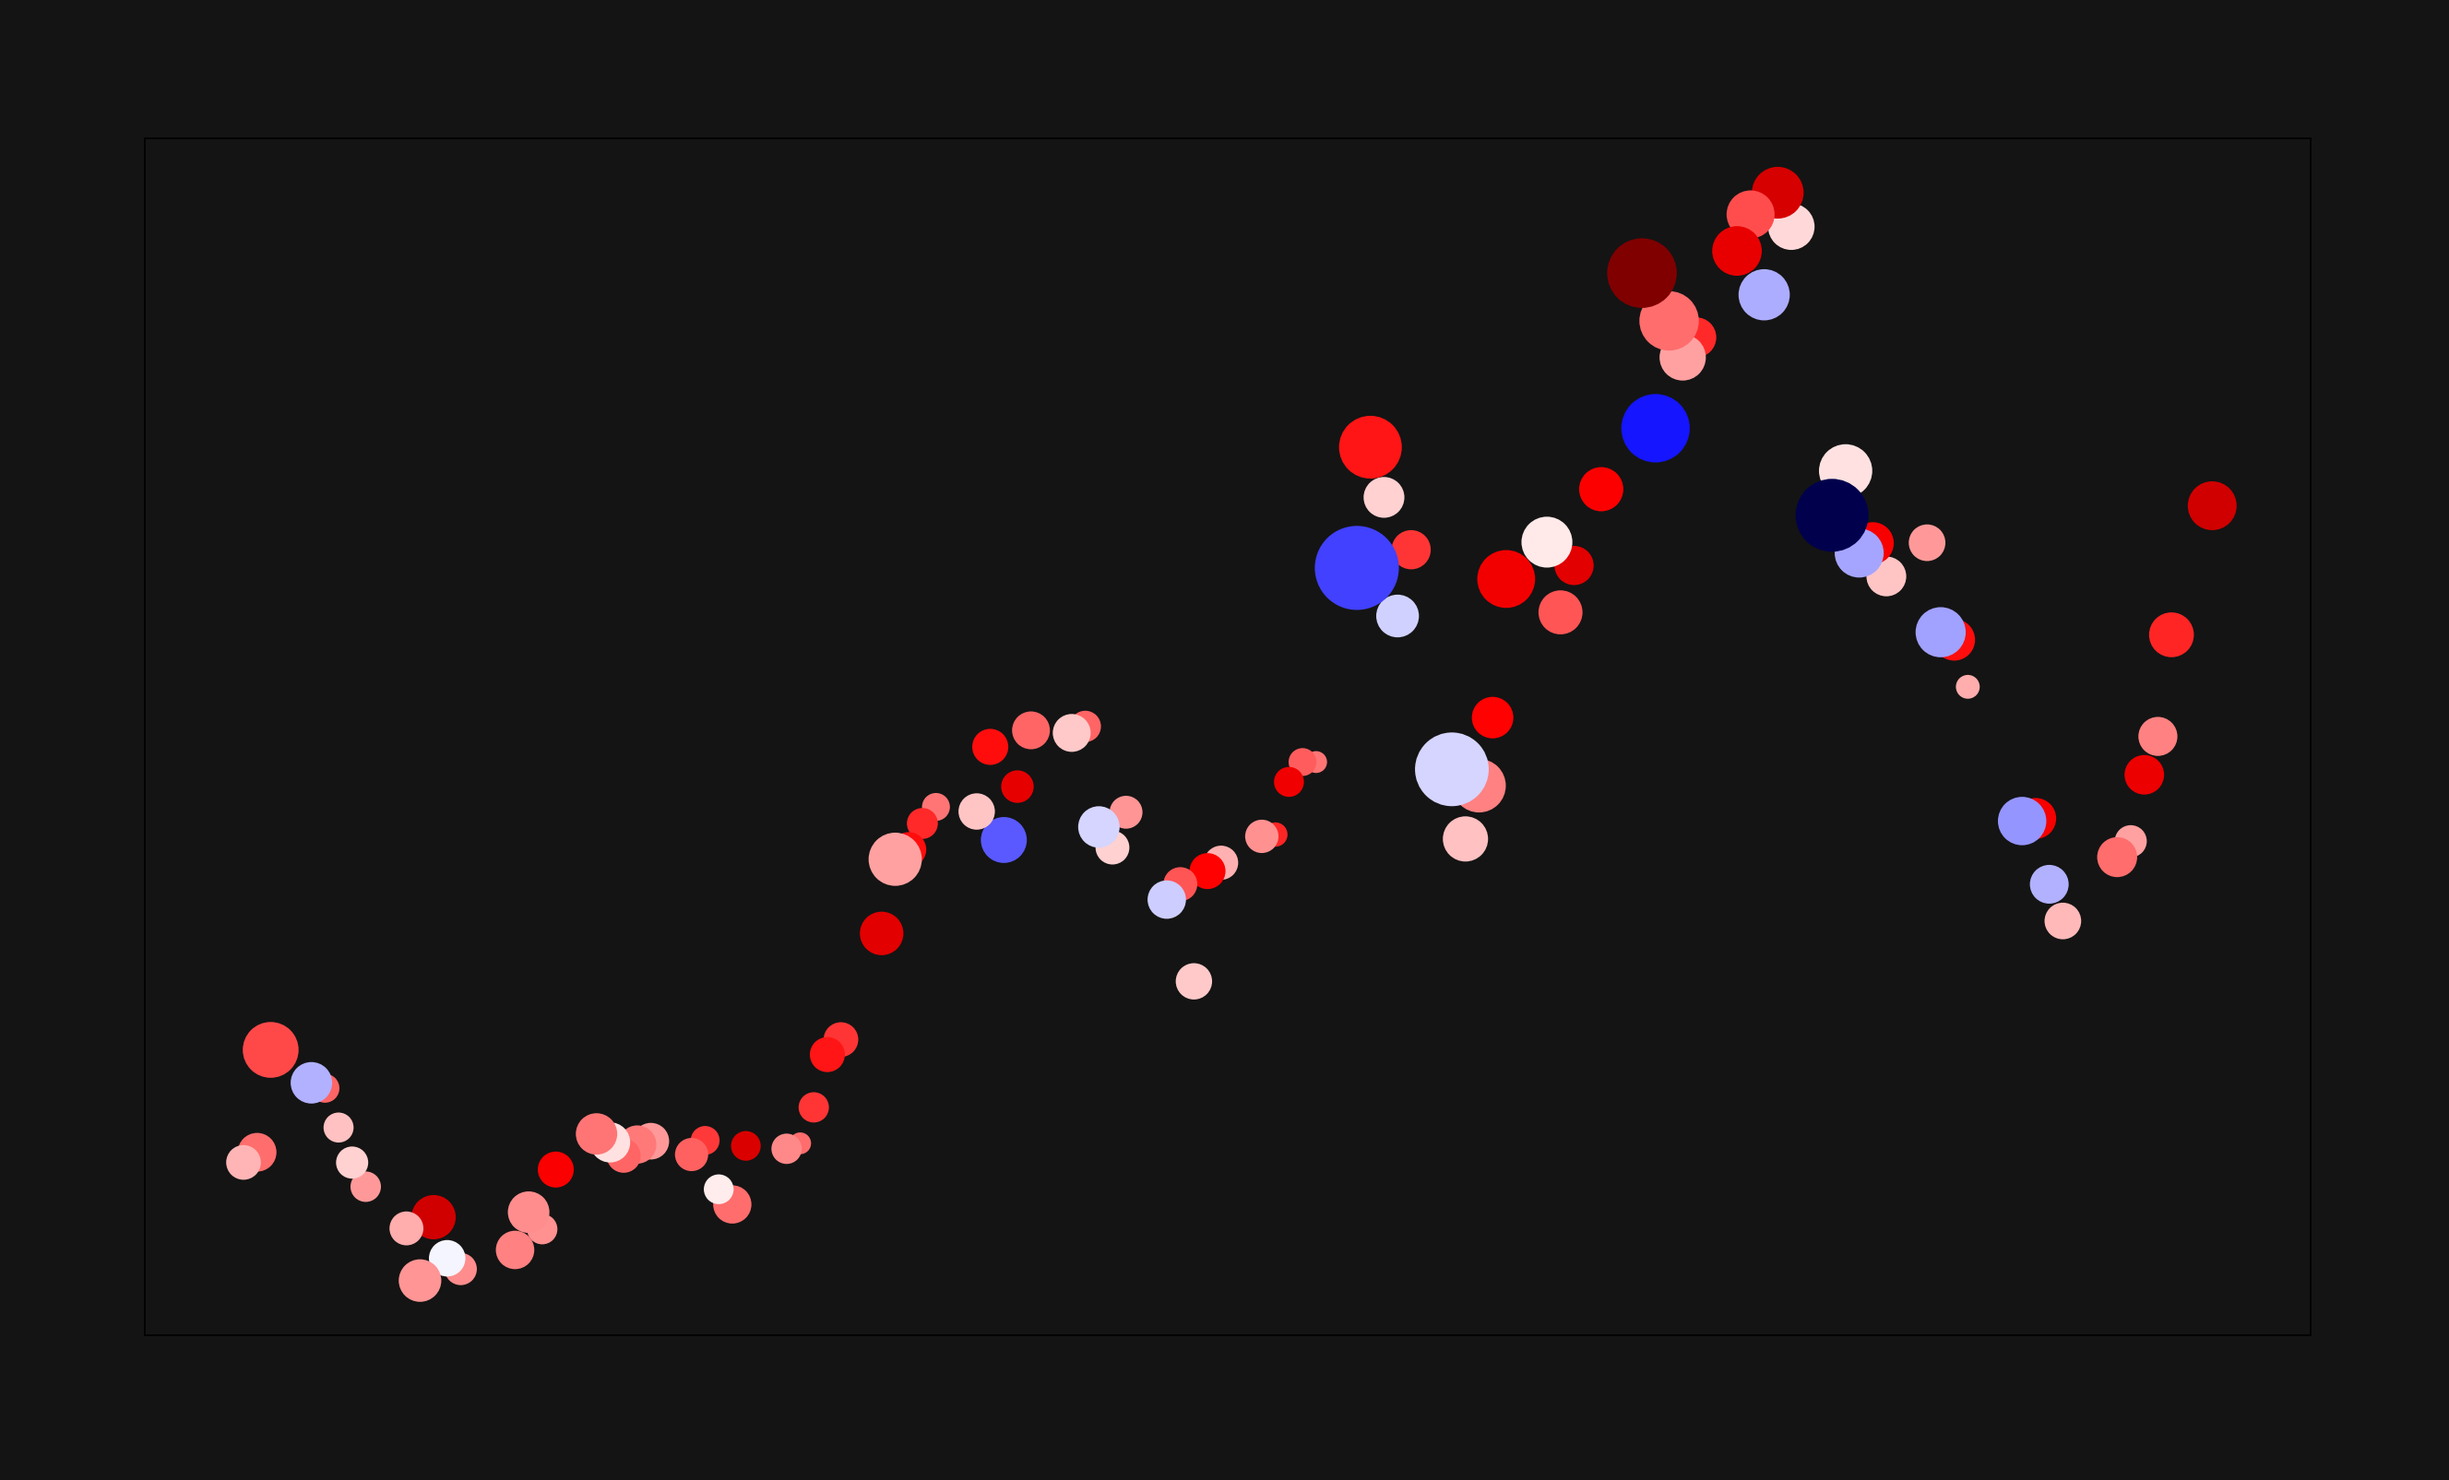
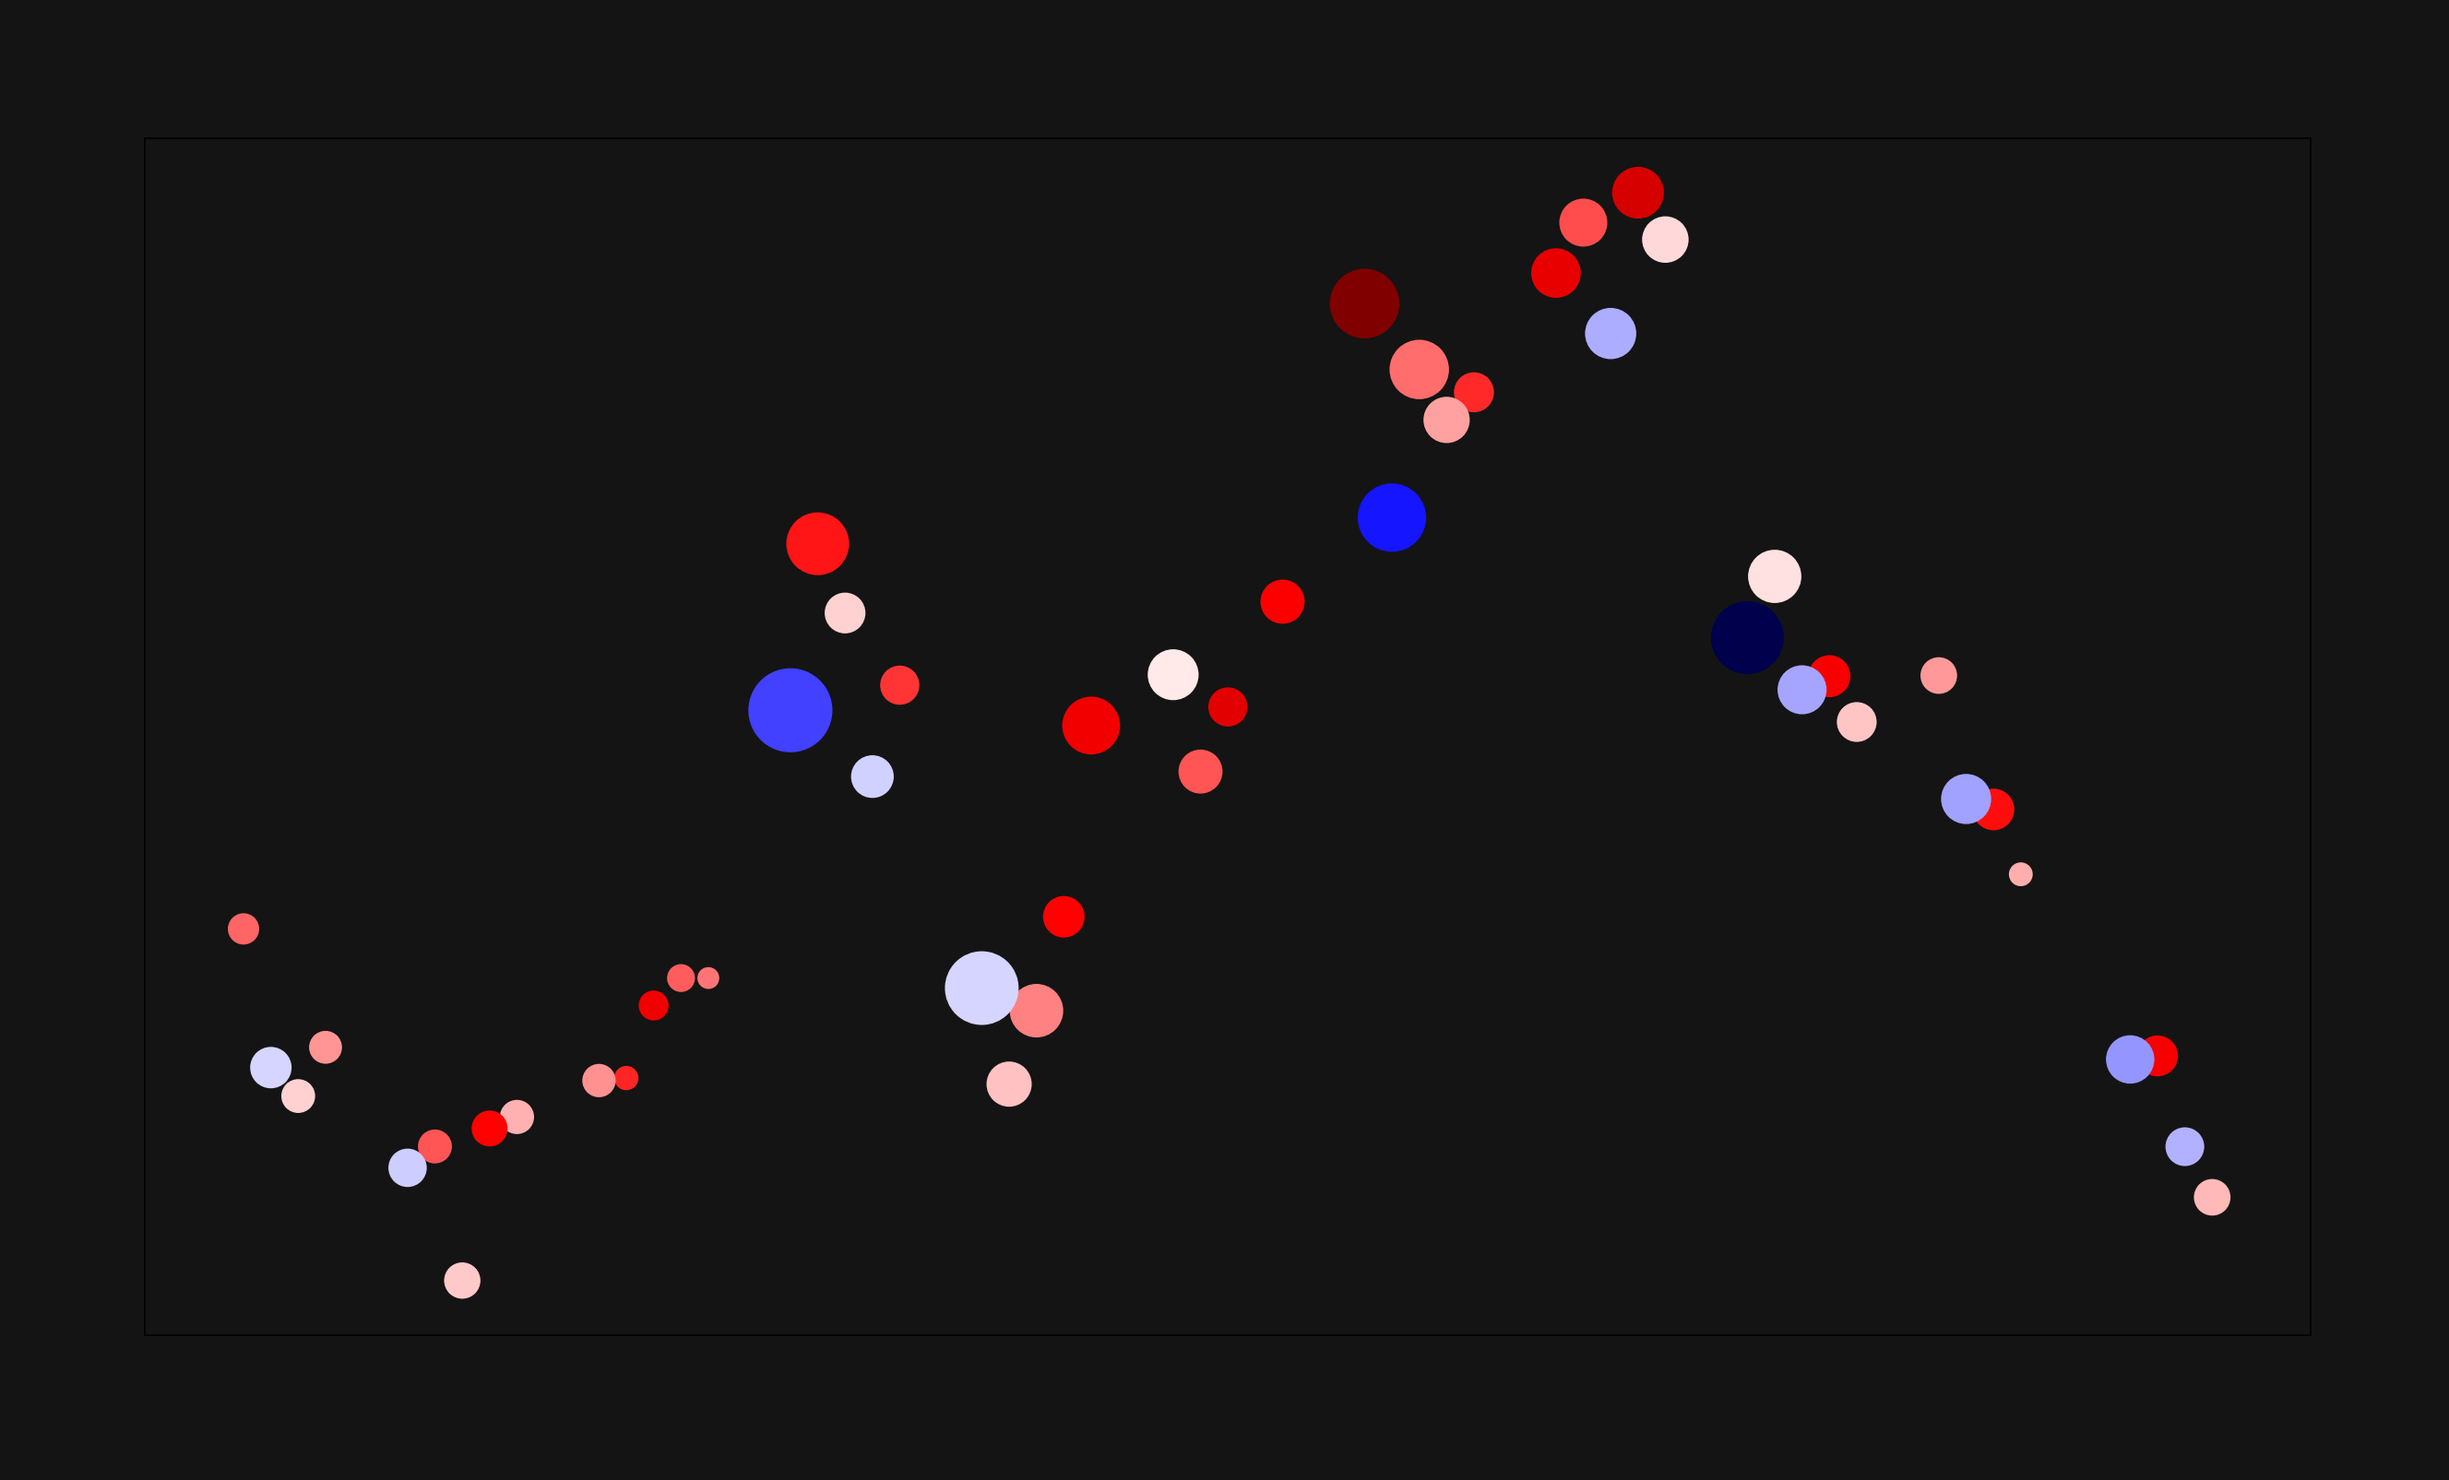
Little correction in stockart...

diff --git a/jan.12/stockart.py b/jan.12/stockart.py
@@ -34,9 +34,9 @@ class StockArt():
 		print("-- extracting art from the data...", end="\r")
 		figure = plt.figure(num=None, figsize=(w, h), dpi=resolution, facecolor=background, edgecolor=background)
 		for s in range(len(dataframes)):
-			plt.scatter(x=dataframes[s][start:end].index, y=dataframes[s][start:end]['4. close'], \
-						s=dataframes[s][start:end]['5. volume'] / volume, \
-						c=dataframes[s][start:end]['4. close']-dataframes[s][start:end]['1. open'], \
+			plt.scatter(x=dataframes[s][end:start].index, y=dataframes[s][end:start]['4. close'], \
+						s=dataframes[s][end:start]['5. volume'] / volume, \
+						c=dataframes[s][end:start]['4. close']-dataframes[s][end:start]['1. open'], \
 						cmap=colormap, marker="o")
 		ax = plt.gca()
 		ax.set_facecolor(background)
@@ -50,6 +50,7 @@ class StockArt():
 		print("-- loading data from alphavantage...", end="\r")
 		for s in range(len(symbols)):
 			d, m = ts.get_daily(symbol=symbols[s])
+			print(d.shape)
 			data.append(d)
 			metadata.append(m)
 		print("-- data loaded!                       ", end="\n")
